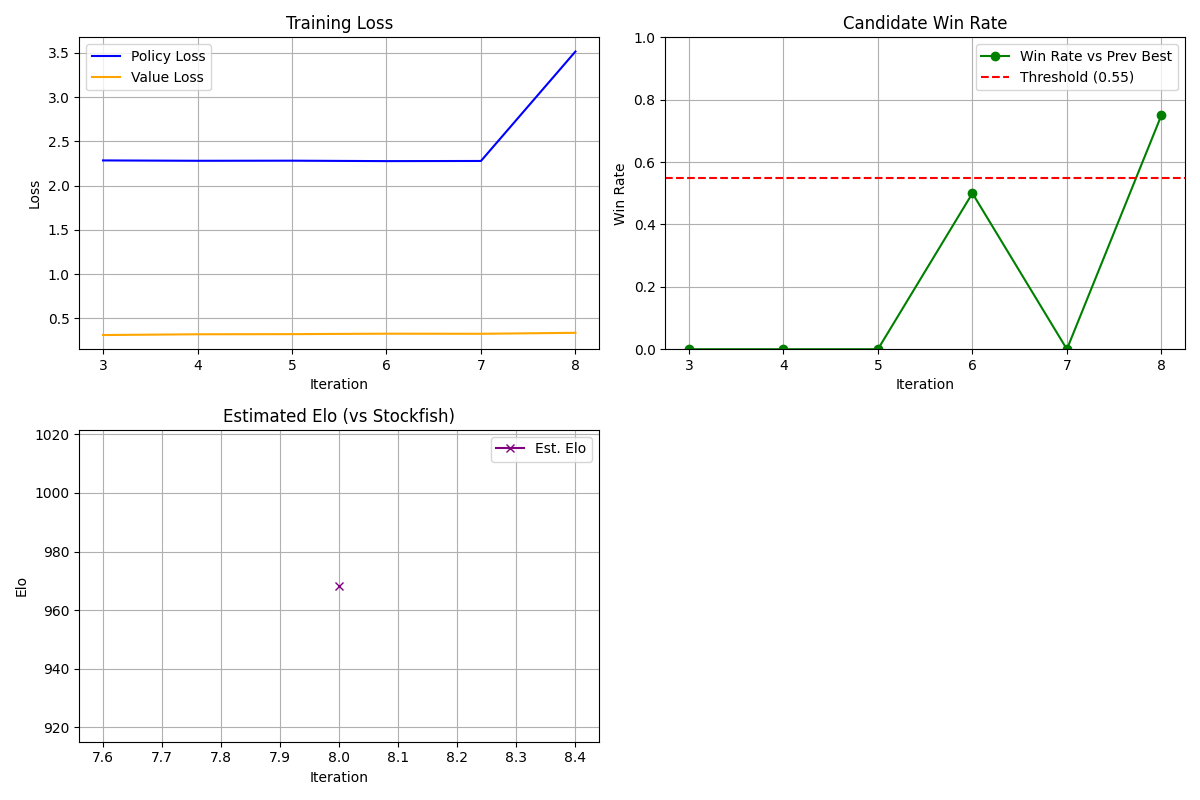
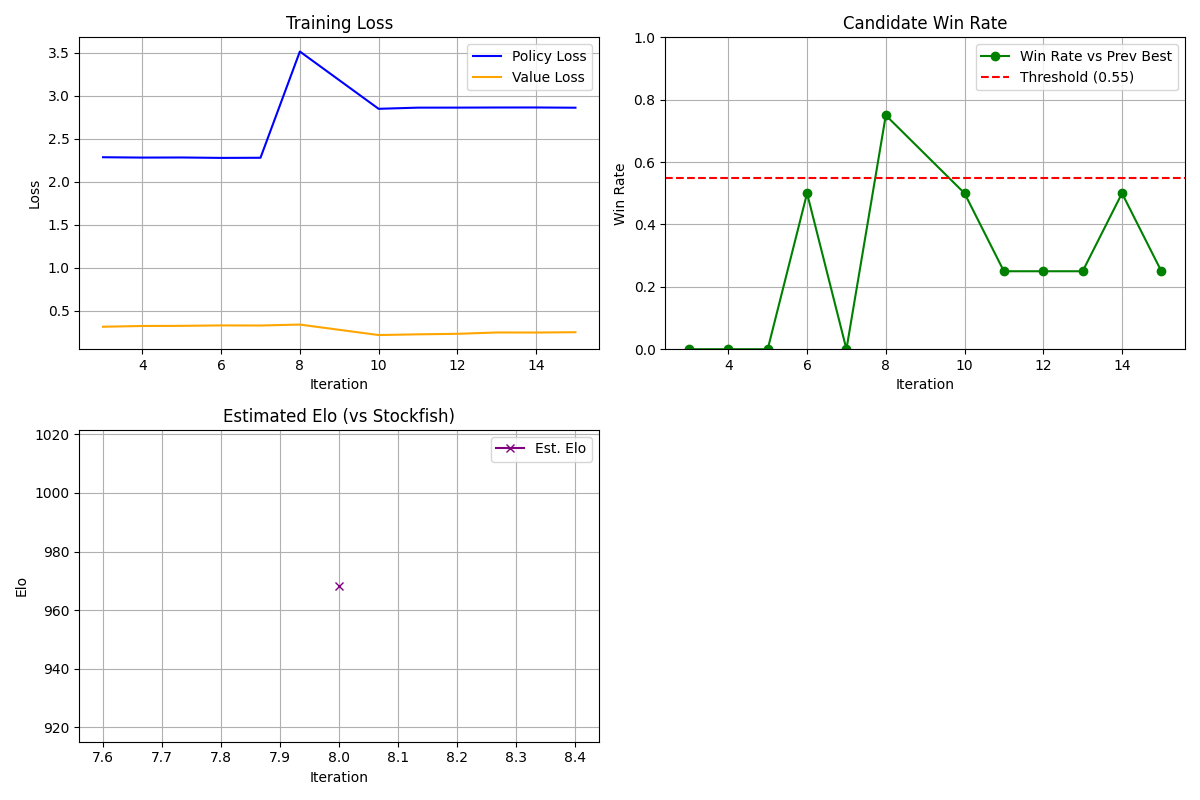
iteration 15 changes to break plateau-2

diff --git a/FINAL/chess_ai/game_engine/main.py b/FINAL/chess_ai/game_engine/main.py
@@ -36,7 +36,7 @@ WORKER_BATCH_SIZE = 8
 GAMES_PER_WORKER = 5        
 
 # --- QUALITY ---
-SIMULATIONS = 800           
+SIMULATIONS = 1200           
 EVAL_SIMULATIONS = 800      
 
 # --- EVALUATION CONFIG ---
